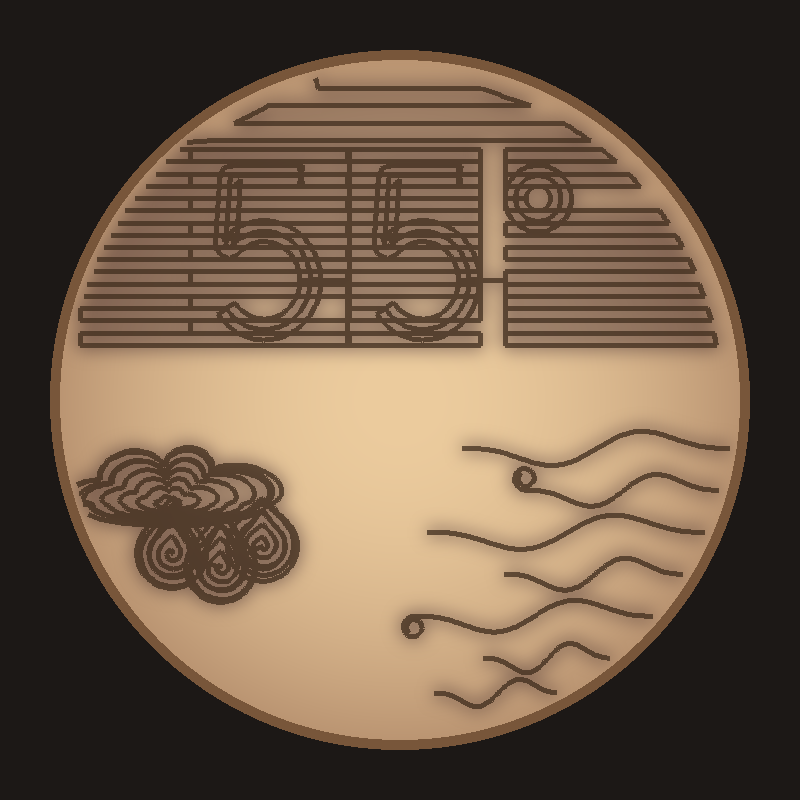
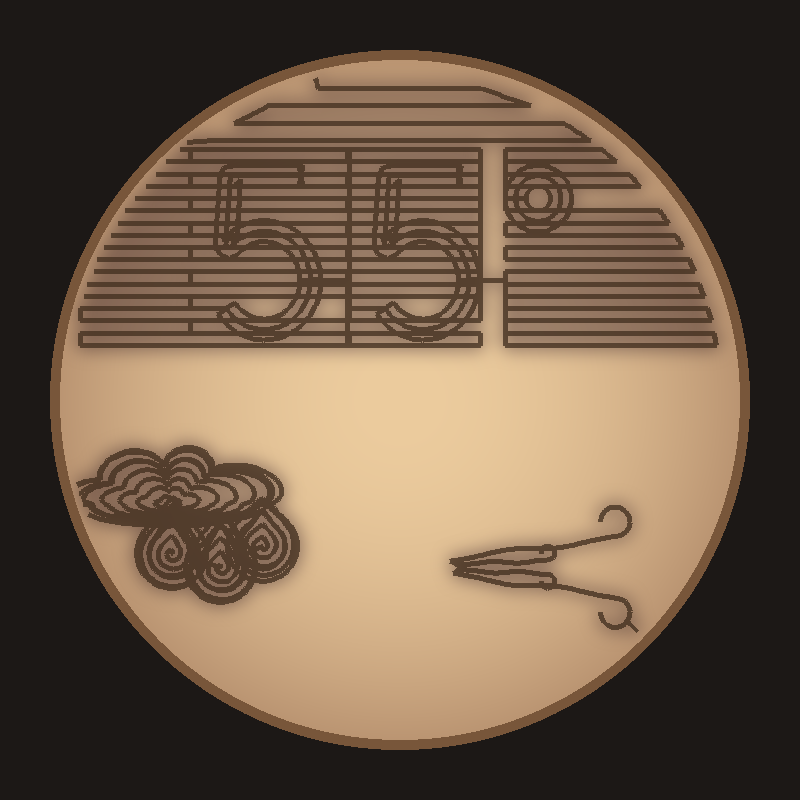
Draw wind as one centered four-line emblem.
The gusts are four gently curved strokes that start together on the left and fan out into open round curls. Combined pictures use the same emblem, smaller, on the right. Version 1.4.2.

Changed region(s): [[0.5, 0.5312, 0.9062, 0.9062]]

diff --git a/custom_components/homedics_drift/weather_design.py b/custom_components/homedics_drift/weather_design.py
@@ -34,7 +34,7 @@
     thunderstorm  a cloud, a bold lightning bolt, and a few slanted rain lines
     snow          a big snowflake and two small ones, in gently drifting lines
     clear_night   a crescent moon and a few small stars
-    windy         curved gusts in free groups, staggered, each with an open curl
+    windy         one centered emblem of four tapered lines, each ending in an open round curl
 
 Sun, clouds, rain, snow, and the temperature digits are Josh Lannin's. The other
 five pictures use the same construction.
@@ -908,46 +908,166 @@ def _gust(side, y, x_end, bow, curl=0.0, curl_up=True, kind="bow"):
     return body + hooked[1:]
 
 
-def wind_gusts():
-    """Free gust groups. Each line starts on the rim at its own height, so the left ends stagger.
+def _gentle_s(p0, p1, bow):
+    """A gentle S. Endpoints stay put, and the middle bows by `bow`."""
+    dist = math.hypot(p1[0] - p0[0], p1[1] - p0[1]) or 0.01
+    n = max(6, int(dist / STEP))
+    pts = []
+    for i in range(n + 1):
+        t = i / n
+        # Zero slope in the extra bow at both ends, so the hook joins smoothly.
+        bend = bow * math.sin(math.pi * t) ** 2 * math.sin(2 * math.pi * t)
+        pts.append((
+            p0[0] + (p1[0] - p0[0]) * t,
+            p0[1] + (p1[1] - p0[1]) * t + bend,
+        ))
+    return pts
 
-    The pen returns along the stroke and only then walks the table edge to the
-    next line. Long lines run into an open curl. Nothing joins the lines inside
-    the picture.
+
+def _hook(attach, radius, up):
+    """An open round hook, three quarters of a circle, constant radius.
+
+    The line arrives going right. A top hook turns counter-clockwise up and
+    back to the left. A bottom hook is the mirror, turning down.
     """
+    if up:
+        center = (attach[0], attach[1] + radius)
+        a0, delta = -math.pi / 2, 1.5 * math.pi
+    else:
+        center = (attach[0], attach[1] - radius)
+        a0, delta = math.pi / 2, -1.5 * math.pi
+    n = max(16, int(abs(delta) * radius / STEP))
+    return [polar(center, radius, a0 + delta * i / n) for i in range(n + 1)]
+
+
+# One emblem, in its own coordinates: left starts close together, fanning to the right.
+# (x0, y0, x1, y1, radius, up, bow)
+_WIND_LINES = (
+    # x0, y0, x1, y1, radius, up, bow. Origin is the emblem center.
+    # Starts sit in one small bundle, only slightly staggered. Length shows up on the right.
+    (-0.56, 0.018, 0.02, 0.05, 0.046, True, 0.016),     # 1 top-inner, medium curl up
+    (-0.64, 0.042, 0.48, 0.21, 0.100, True, 0.030),     # 2 top, longest, large curl up
+    (-0.62, -0.042, 0.48, -0.21, 0.100, False, -0.030), # 3 bottom, long, large curl down
+    (-0.54, -0.018, 0.02, -0.05, 0.046, False, -0.016), # 4 bottom-inner, medium curl down
+)
+
+
+def _wind_line(spec, scale, origin):
+    x0, y0, x1, y1, radius, up, bow = spec
+    start = (origin[0] + x0 * scale, origin[1] + y0 * scale)
+    attach = (origin[0] + x1 * scale, origin[1] + y1 * scale)
+    body = _gentle_s(start, attach, bow * scale)
+    hook = _hook(attach, radius * scale, up)
+    return body + hook[1:]
+
+
+def wind_emblem(scale=1.0, origin=(0.0, -0.42)):
+    """Four tapered wind lines. Each is drawn out to the hook and back to its left start.
+
+    The next line is picked up in that same left bundle, so nothing else joins them.
+    """
+    # Draw long-top, short-top, short-bottom, long-bottom so each hop stays inside the bundle.
+    lines = [_wind_line(spec, scale, origin) for spec in _WIND_LINES]
     path = []
-    # side, y, x_end, bow, curl, curl_up, kind.
-    # Groups sit apart. Within a group the left tips are not on one vertical line.
-    rows = (
-        (-1, -0.13, 0.48, 0.08, 0.036, True, "s"),
-        (1, -0.27, 0.12, 0.075, 0.0, True, "s"),
-        (-1, -0.40, -0.06, 0.07, 0.0, True, "s"),
-        (1, -0.53, 0.22, 0.08, 0.034, False, "s"),
-        (-1, -0.66, 0.44, 0.075, 0.036, True, "s"),
-        (1, -0.78, 0.02, 0.065, 0.0, True, "s"),
-        (-1, -0.88, 0.16, 0.06, 0.0, True, "s"),
-    )
-    for side, y, x_end, bow, curl, curl_up, kind in rows:
-        _from_edge(path, _gust(side, y, x_end, bow, curl, curl_up, kind))
+    for index in (1, 0, 3, 2):
+        stroke = _retrace(lines[index])
+        if path and math.dist(path[-1], stroke[0]) > 1e-6:
+            path += line(path[-1], stroke[0])[1:]
+        path += stroke
     return path
 
 
-def _side_gusts(avoid=None):
-    """Gusts that begin on the right rim, beside a symbol. `avoid` is a height to skip."""
-    path = []
-    rows = (
-        (-0.14, 0.18, 0.075, 0.0, True, "s"),
-        (-0.26, 0.36, 0.07, 0.034, True, "s"),
-        (-0.38, 0.08, 0.075, 0.0, True, "s"),
-        (-0.50, 0.30, 0.07, 0.0, True, "s"),
-        (-0.62, 0.04, 0.07, 0.032, False, "s"),
-        (-0.74, 0.24, 0.065, 0.0, True, "s"),
-        (-0.84, 0.10, 0.06, 0.0, True, "s"),
-    )
-    for y, x_end, bow, curl, curl_up, kind in rows:
-        if avoid is not None and abs(y - avoid) < 0.09:
+def _radial_rim(point):
+    """The table-edge point in the same direction as `point`."""
+    radius = math.hypot(*point) or 1.0
+    return (point[0] / radius * RIM, point[1] / radius * RIM)
+
+
+def _flow_margin(path, emblem):
+    """Horizontal lines that stop short of the emblem. The pen is already on the rim."""
+    pad = 0.07
+    x_lo = min(p[0] for p in emblem) - pad
+    x_hi = max(p[0] for p in emblem) + pad
+    y_lo = min(p[1] for p in emblem) - pad
+    y_hi = max(p[1] for p in emblem) + pad
+    for y in (i / 100 for i in range(-90, 10, 9)):
+        if y >= PANEL_Y - 0.03 or abs(y) > RIM - 0.05:
             continue
-        _from_edge(path, _gust(1, y, x_end, bow, curl, curl_up, kind))
+        half = math.sqrt(max(0.0, RIM * RIM - y * y))
+        if y > y_hi or y < y_lo:
+            spans = [(-half, half)]
+        else:
+            spans = []
+            if x_lo > -half + 0.1:
+                spans.append((-half, min(x_lo, half)))
+            if x_hi < half - 0.1:
+                spans.append((max(x_hi, -half), half))
+        for x0, x1 in spans:
+            if x1 - x0 < 0.1:
+                continue
+            start = _on_rim(y, -1 if abs(x0 + half) < abs(x1 - half) else 1)
+            stop = (x1, y) if abs(start[0] - x0) < abs(start[0] - x1) else (x0, y)
+            stroke = _retrace(_resample([start, stop]))
+            path += rim_arc(path[-1], start)
+            path += stroke
+    return path
+
+
+def wind_gusts():
+    """The centered wind emblem, with plain flow lines stopping around it."""
+    origin = (0.0, -0.36)
+    lines = [_wind_line(spec, 1.0, origin) for spec in _WIND_LINES]
+    path = wind_emblem(1.0, origin)
+    # Step across the left bundle to the long bottom line and follow it out,
+    # then a short step to the rim. Flow lines continue from there.
+    bottom = lines[2]
+    if math.dist(path[-1], bottom[0]) > 1e-6:
+        path += line(path[-1], bottom[0])[1:]
+    outer = max(bottom, key=lambda p: math.hypot(*p))
+    k = max(range(len(bottom)), key=lambda i: math.hypot(*bottom[i]))
+    path += bottom[: k + 1][1:]
+    path += line(path[-1], _radial_rim(outer))[1:]
+    return _flow_margin(path, [p for line in lines for p in line])
+
+
+def _fit_origin(scale, origin_y, limit=0.90):
+    """Shift the emblem right until its furthest point sits just inside `limit`."""
+    lo, hi = -0.2, 0.85
+    for _ in range(18):
+        mid = (lo + hi) / 2
+        rho = max(
+            math.hypot(*p)
+            for spec in _WIND_LINES
+            for p in _wind_line(spec, scale, (mid, origin_y))
+        )
+        if rho > limit:
+            hi = mid
+        else:
+            lo = mid
+    return (lo, origin_y)
+
+
+def _side_gusts():
+    """The same four lines, smaller, on the right. The path starts and ends on the rim."""
+    scale = 0.42
+    origin = _fit_origin(scale, -0.48, limit=0.91)
+    lines = [_wind_line(spec, scale, origin) for spec in _WIND_LINES]
+    bottom = lines[2]
+    # The long bottom curl is the part nearest the rim. Enter and leave on it.
+    k = max(range(len(bottom)), key=lambda i: math.hypot(*bottom[i]))
+    outer = bottom[k]
+    path = line(_radial_rim(outer), outer)
+    path += bottom[k:][1:]
+    path += bottom[::-1][1:]
+    for index in (0, 1, 3):
+        stroke = _retrace(lines[index])
+        if math.dist(path[-1], stroke[0]) > 1e-6:
+            path += line(path[-1], stroke[0])[1:]
+        path += stroke
+    if math.dist(path[-1], bottom[0]) > 1e-6:
+        path += line(path[-1], bottom[0])[1:]
+    path += bottom[: k + 1][1:]
+    path += line(path[-1], _radial_rim(outer))[1:]
     return path
 
 

diff --git a/README.md b/README.md
@@ -235,12 +235,12 @@ The picture is one of these symbols, with the forecast high in big digits. Sun, 
 - **hail** — a cloud and round hailstones
 - **sleet** — drops and flakes together
 - **snow** — a big snowflake and two small ones
-- **windy** — curved gusts in free groups, left ends staggered, each long line ending in an open curl
+- **windy** — four long curved lines in one centered emblem, each ending in an open round curl
 - **alert** — a warning triangle
 
 1. Open **Settings → Devices & services → HoMedics Drift → Configure**.
 2. **Weather entity**: pick any Home Assistant weather entity. National Weather Service, Met.no, OpenWeatherMap, and any other weather integration all work. The integration calls `weather.get_forecasts` with `type: daily` and uses the first day: its condition, its high (`temperature`), its overnight low (`templow`) when that is present, its wind speed, and its chance of precipitation when that field is present.
-3. **Windy threshold**, **Hot threshold**, **Cold threshold**, and **Heavy rain chance** decide the extra symbols. Met.no and many forecasts never report a `windy` condition, so the wind speed is what turns the gusts on. The speed is the day's forecast wind, or the entity's current `wind_speed` when the forecast leaves it out, converted from `wind_speed_unit` (`mph`, `km/h`, `m/s`, `kn`, or `ft/s`). A fair sky (sunny, clear night, partly cloudy, cloudy) at or above the threshold is drawn as the full wind picture. Rain, heavy rain, a storm, hail, sleet, snow, fog, hot, cold, and an alert keep their symbol and gain a smaller run of gusts beside it. The default wind threshold is **15 mph** when the temperature unit is °F, and **25 km/h** when it is °C (Beaufort 4, a moderate breeze). Auto follows the weather entity's temperature unit. Hot defaults to **90°F** or **32°C**, and it is skipped when precipitation is the day's symbol. Cold defaults to **32°F** or **0°C**, and it applies only when the sky would otherwise be clear or cloudy. Heavy rain defaults to a **70%** chance, or the condition `pouring`; a missing chance is not treated as zero. Type each number in the unit shown next to the box.
+3. **Windy threshold**, **Hot threshold**, **Cold threshold**, and **Heavy rain chance** decide the extra symbols. Met.no and many forecasts never report a `windy` condition, so the wind speed is what turns the gusts on. The speed is the day's forecast wind, or the entity's current `wind_speed` when the forecast leaves it out, converted from `wind_speed_unit` (`mph`, `km/h`, `m/s`, `kn`, or `ft/s`). A fair sky (sunny, clear night, partly cloudy, cloudy) at or above the threshold is drawn as the full wind picture. Rain, heavy rain, a storm, hail, sleet, snow, fog, hot, cold, and an alert keep their symbol and gain the same wind emblem, smaller, on the right. The default wind threshold is **15 mph** when the temperature unit is °F, and **25 km/h** when it is °C (Beaufort 4, a moderate breeze). Auto follows the weather entity's temperature unit. Hot defaults to **90°F** or **32°C**, and it is skipped when precipitation is the day's symbol. Cold defaults to **32°F** or **0°C**, and it applies only when the sky would otherwise be clear or cloudy. Heavy rain defaults to a **70%** chance, or the condition `pouring`; a missing chance is not treated as zero. Type each number in the unit shown next to the box.
 4. **Weather alert** is optional. Pick a `binary_sensor` or a `sensor`. On, or a number above zero, draws the warning triangle ahead of every other symbol. Leave the field empty and alerts stay off.
 5. **Temperature unit**: Auto uses that entity's unit (`°F` or `°C`). Choose F or C when you want the digits in the other unit. The high is converted only when the entity's unit and your choice differ. Hot, cold, and the wind threshold use this same choice.
 6. **Rotation** is 0–359 degrees counter-clockwise. 0 matches the design as published. Turn it if the top of the table is not the far edge.

diff --git a/CHANGELOG.md b/CHANGELOG.md
@@ -1,5 +1,9 @@
 # Changelog
 
+## 1.4.2
+
+- The wind picture is one centered emblem: four long, gently curved lines that start close together on the left and fan out, each ending in an open round curl. Plain horizontal lines flow around it. A windy day beside another symbol uses the same emblem, smaller, on the right.
+
 ## 1.4.1
 
 - More weather symbols: thunderstorm, partly cloudy, clear night, fog, wind, hot, cold, hail, sleet, heavy rain, and a weather alert. Wind at or above the threshold is the whole picture on a fair sky, and a run of gusts beside rain, snow, a storm, hail, sleet, fog, hot, cold, or an alert. Defaults are 15 mph / 25 km/h, 90°F / 32°C, 32°F / 0°C, and a 70% chance of heavy rain. An optional alert entity, left empty, stays off.
